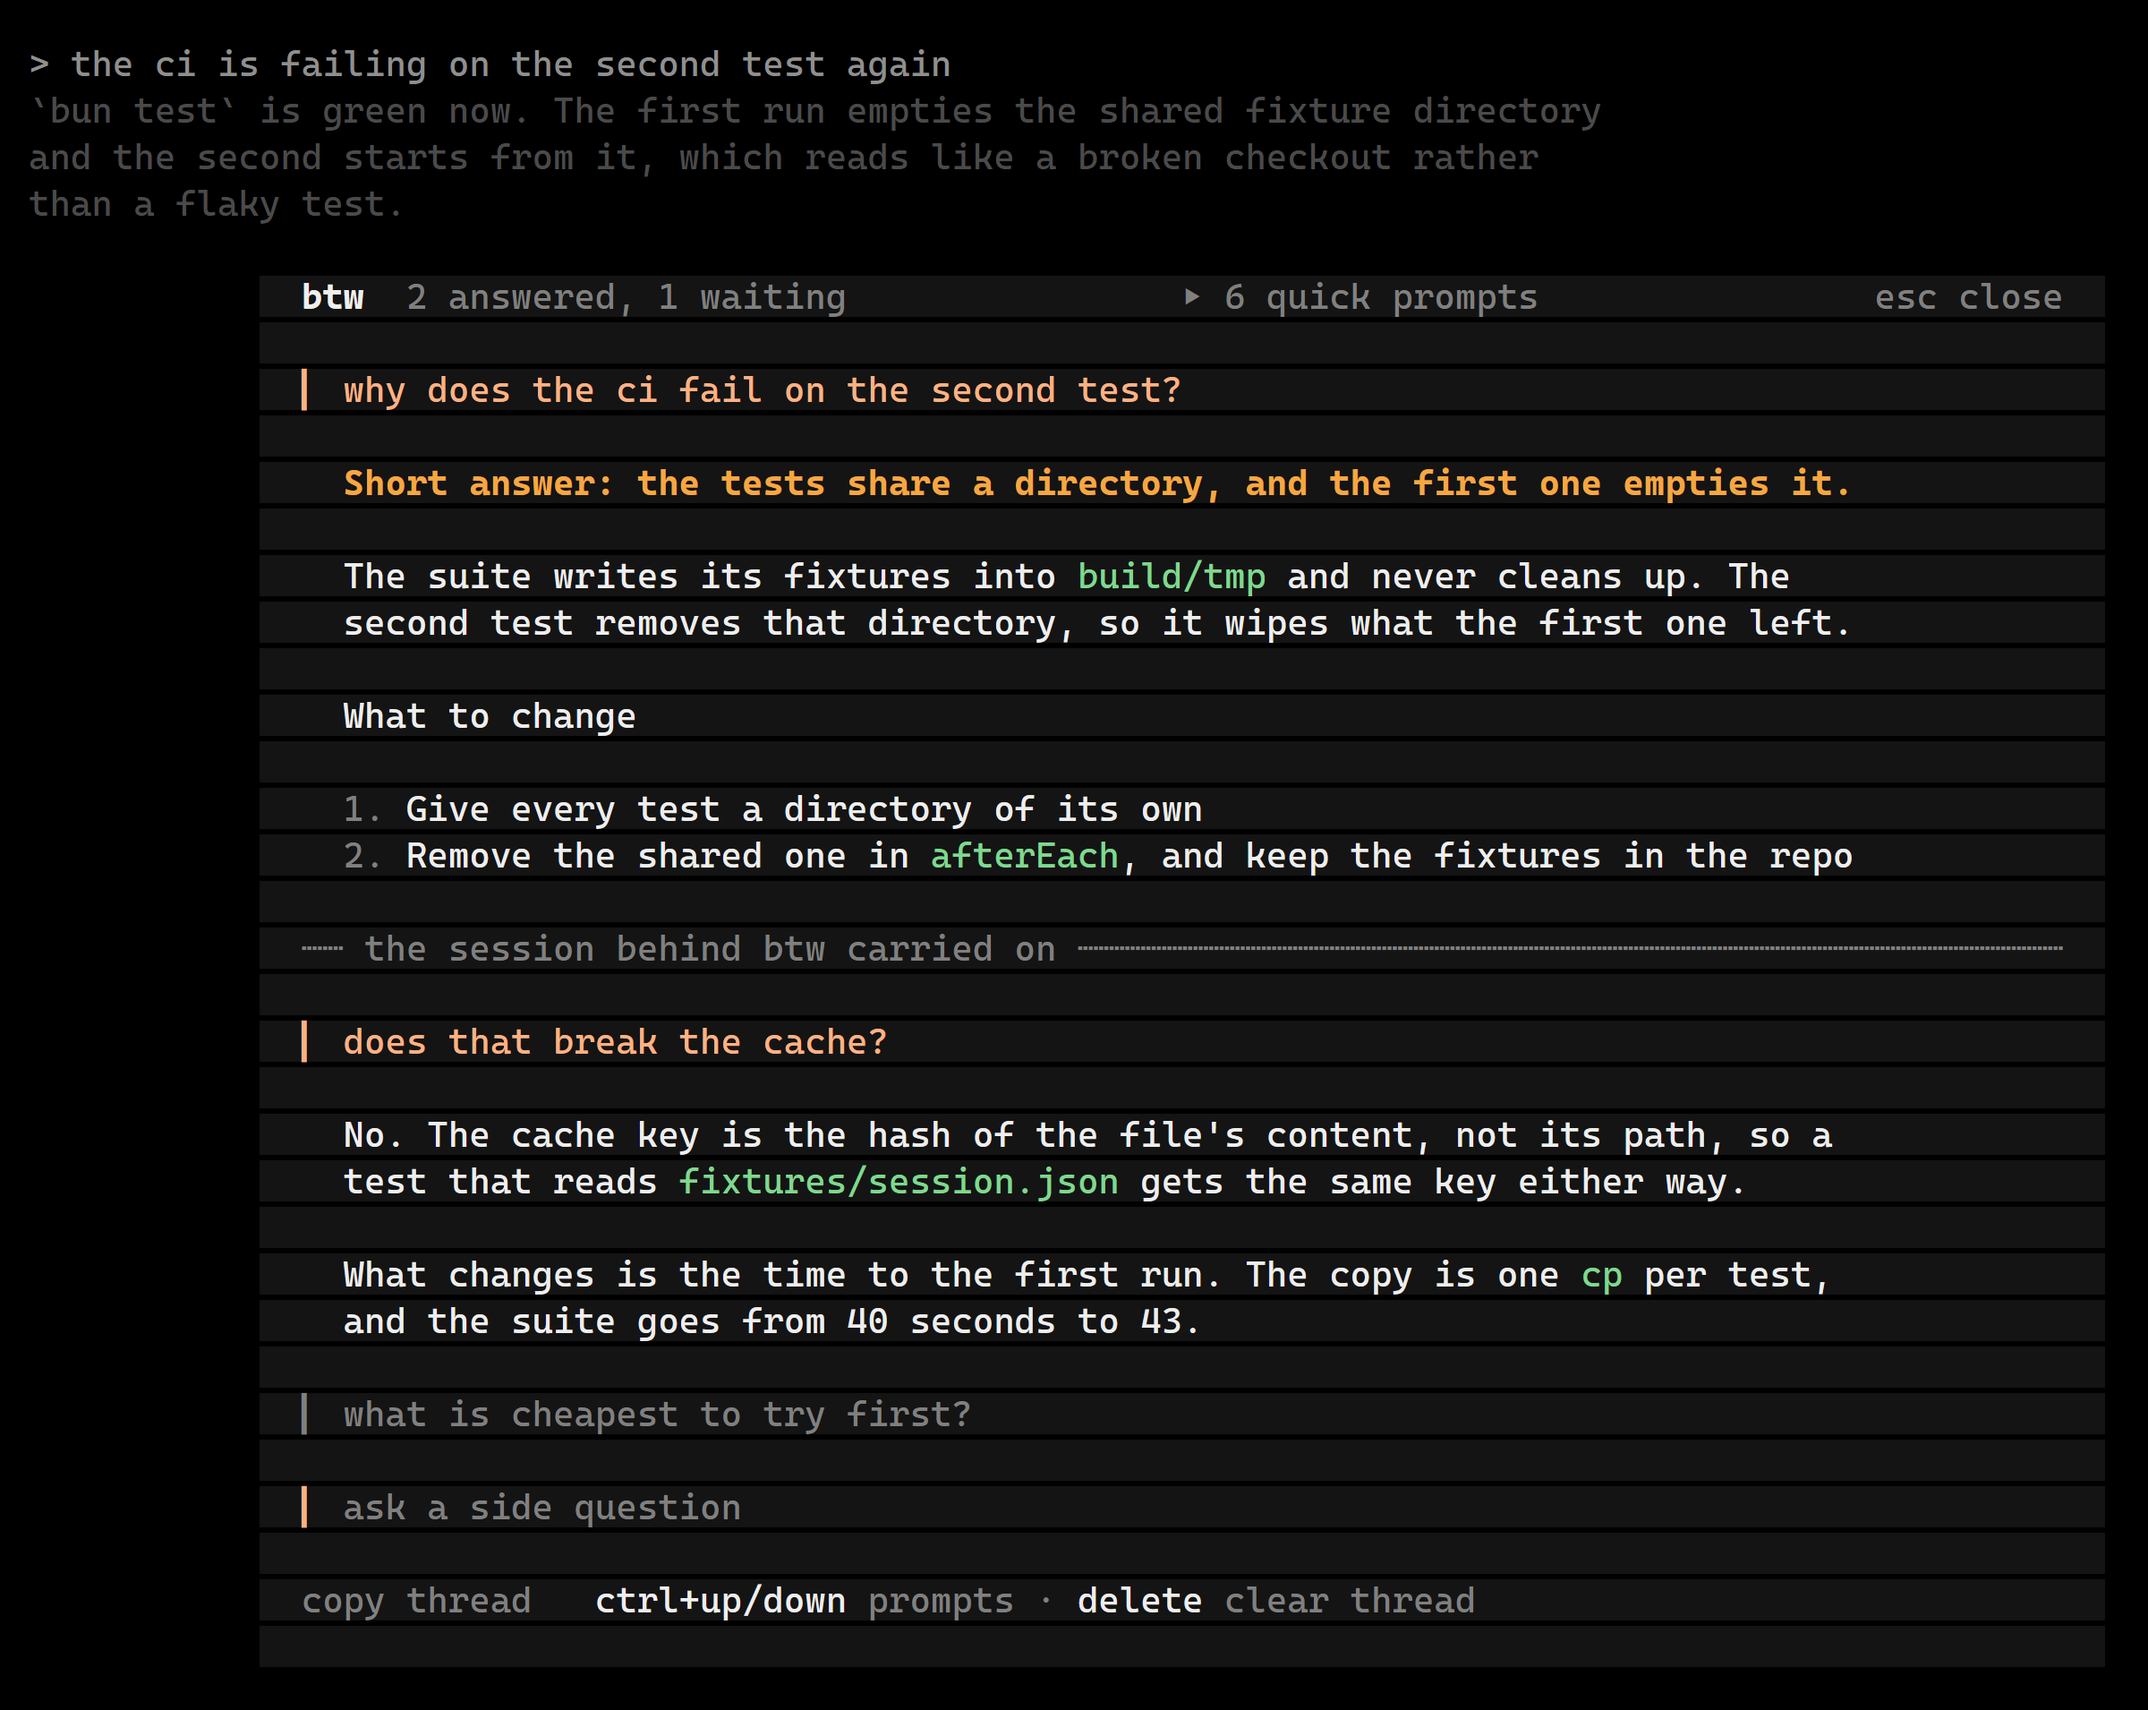
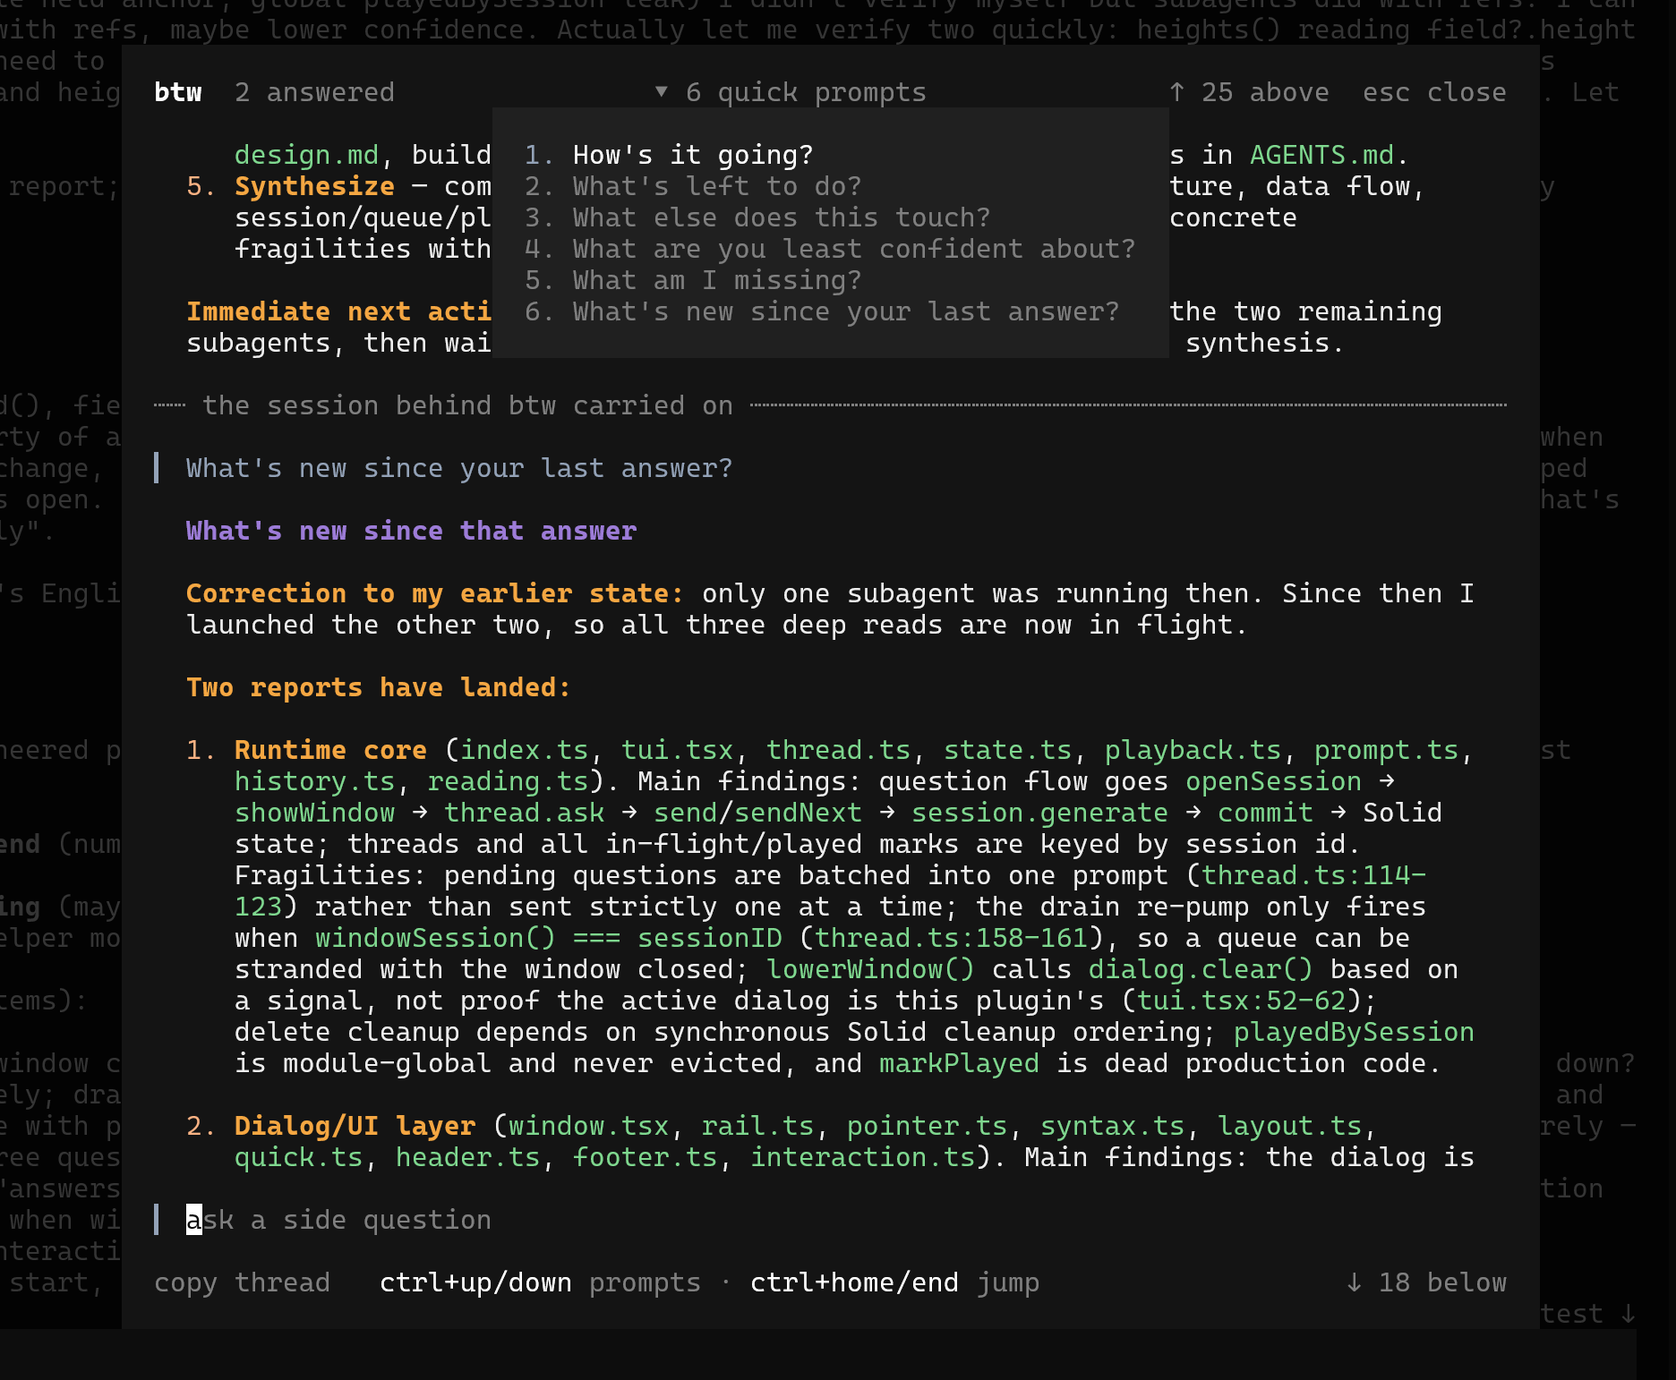
Update README, screenshots, and screenshot script

diff --git a/README.md b/README.md
@@ -1,111 +1,63 @@
 # @alexzzzz/opencode-btw-followups
 
-An OpenCode plugin that replaces the built-in `/btw` command with a dialog that keeps a
-thread of follow-up questions.
+An OpenCode plugin for side questions that keeps a thread.
 
 [![npm](https://img.shields.io/npm/v/@alexzzzz/opencode-btw-followups)](https://www.npmjs.com/package/@alexzzzz/opencode-btw-followups)
 
-## Why
+## What is it?
 
-The built-in `/btw` asks one question and drops the exchange, so a follow-up question starts
-from nothing. Asking inside the session instead puts side talk into the context of the work
-and into the transcript.
+This plugin replaces the built-in `/btw` with a separate window for side questions. It keeps the questions and answers and sends them with each new question, so follow-up questions build on the earlier answers. The main session does not change.
 
-This plugin keeps every question and answer on screen, answers them one at a time in the
-order they were asked, and writes nothing into the session it was asked about.
+## Why does it exist?
 
-If you only ask one question and never come back to it, the built-in command is enough.
+The built-in `/btw` answers one question and forgets the exchange. A follow-up question starts again from zero. If you ask a side question in the session, the question and answer go into the session's context and transcript.
 
-## Features
+If you only need one question, the built-in `/btw` is enough.
 
-- **A thread per session.** Questions and answers stay on screen in one dialog, and the
-  thread is re-sent with every new question, so follow-ups build on the ones before. The
-  session's own context is untouched.
-- **One answer at a time, in order.** Questions asked while an answer is arriving queue up
-  behind it and go out together as the next one, numbered, so several asked together come
-  back as a list. The queue drains in full whether the window is open or not.
-- **The window is where you left it.** Reopening a thread shows it whole; an answer that
-  arrives while the window is closed is written out once when the window comes back, and
-  the line between two turns says where the session moved on.
-- **Prepared prompts.** The marker in the header (or `Ctrl+Up` inside the window) opens a
-  list of six ready questions. Click one, or walk it with `Up` and `Down` and press
-  `Enter`; a question typed into the composer stays there while a pick is asked.
-- **Click a piece of an answer to copy it.** A click copies one paragraph, list, table or
-  fenced block as plain text, with a rail in the gutter marking what a click would take.
-  `copy thread` in the footer takes the whole thread instead.
-- **The keys the host already teaches.** `PageUp`, `PageDown`, `Enter`, `Esc` and the mouse
-  wheel mean here what they mean in the session. `Ctrl+Home` and `Ctrl+End` jump the
-  transcript (they are the only jump keys, because `Home` and `End` belong to the
-  composer), `Delete` clears the thread behind a second press, and `Up` and `Down` at the
-  ends of the composer walk through the questions asked before.
-- **A badge while a question is out.** The `btw` badge in the prompt row opens the window
-  for the session it belongs to, so a question can be asked and left behind safely.
-- **Failures are named.** An answer that comes back empty or an error stops the queue and
-  shows in the window with the question that failed, so nothing is lost silently.
+## How do I install it?
 
-![The /btw window with two answered questions, one waiting and the composer](docs/btw-window.png)
-
-## Install
+Run this command, or ask your coding agent to install the plugin:
 
 ```sh
 opencode plugin add @alexzzzz/opencode-btw-followups
 ```
 
-It needs OpenCode 2.0.19 or newer and a terminal at least 15 rows tall.
+## How do I use it?
 
-### Turn the built-in command off
-
-Both plugins answer the same `btw` command, so the built-in one has to go or the two
-collide. `cli.json` takes a removal prefixed with `-`:
-
-```jsonc
-{
-  "plugins": ["*", "-opencode.btw", "@alexzzzz/opencode-btw-followups"]
-}
-```
-
-`*` enables every plugin, and `-opencode.btw` disables that one. A later entry re-enables a
-plugin, so the path has to come after the removal.
-
-## Usage
+In the session prompt, type `/btw` and your question:
 
 ```text
 /btw why does the ci fail on the second test?
 ```
 
-Run `/btw` on its own to open the window and type the question into the composer, or press
-`Ctrl+Up` in a session to open it with nothing asked. Answers are written out as they come
-back, and a long answer holds its own question at the top of the window while it is written.
+To open the window first, run `/btw` with no text, then type only your question inside it.
 
-`Ctrl+Down` takes the list of prompts down, and the window down once the list is down. The
-composer keeps the keys the host's own prompt keeps: `Home` and `End` for the ends of the
-text, the arrows for the cursor, and the word and selection keys of the host's input table.
-`Delete` deletes a character in front of the cursor, and clears the thread only while the
-composer is empty.
+You can also use these keys in a session:
+1. Press `Ctrl+Up` to open the window.
+2. Press `Ctrl+Up` again to open the quick prompts. Use `Up` and `Down` to choose one, then press `Enter`, or click a question.
+3. Press `Ctrl+Down` to close the quick prompts.
+4. Press `Ctrl+Down` again to close the window.
 
-A thread belongs to the session it was asked in, and it lives in memory for as long as the
-process runs.
+**BONUS:** `Ctrl+Up` and `Ctrl+Down` also work in subagent sessions. You can ask subagents questions, too.
 
-## How it works
+![The /btw window with the quick prompts open over a long thread](docs/btw-window.png)
 
-`session.generate` writes nothing back into the session, so there is no place on the server
-to keep a side conversation. The thread travels inside the prompt instead, and the dialog
-keeps its own copy for you. A side question cannot run a tool, so the prompt tells the
-model not to call one.
+## What can I do in the window?
 
-## Development
+You can ask follow-up questions. The earlier questions and answers are sent with each new question.
 
-```sh
-bun run check        # typecheck, tests, then the build the package ships
-bun run screenshots  # re-render docs/btw-window.png from the real dialog code
-bun run deploy       # copy the sources into <config>/plugins/btw-followups
-```
+Use `PageUp`, `PageDown`, or the mouse wheel to read a long thread. Click one part of an answer to copy it, or use `copy thread` to copy the whole thread. Press `Delete` twice in an empty input field to clear the thread.
 
-The screenshot is a render of the dialog itself: `scripts/screenshot.tsx` mounts the real
-`ThreadDialog` through the same Solid runtime the host uses, inside a simulated session
-view, captures the frame's styled spans and rasterizes them in a headless browser. The
-design notes and the host limits behind every decision live in
-[`docs/design.md`](docs/design.md).
+![The btw badge in the status bar](docs/btw-badge.png)
+
+When the window is closed, the `btw` badge appears in the status bar below the input field while an answer is being prepared. Click it to open the window for that session. You can close the window at any time and return to it later.
+
+## What are the limits?
+
+- **Model and context:** The window uses the same model as the session. Each new question sends the whole side thread, so a long thread uses more context. If the session is already close to the context limit, a side question can fail. The side questions and answers do not go into the session's context or transcript.
+- **Tools:** The model cannot use tools in the side window. It cannot read files, run commands, or take other actions. If it tries to call a tool, the answer can fail, and the window shows the question that failed.
+- **Storage:** The thread is kept only in memory. It is lost when OpenCode stops or when you delete the session.
+- **Terminal:** The window needs a terminal that is at least 15 rows tall.
 
 ## License
 
